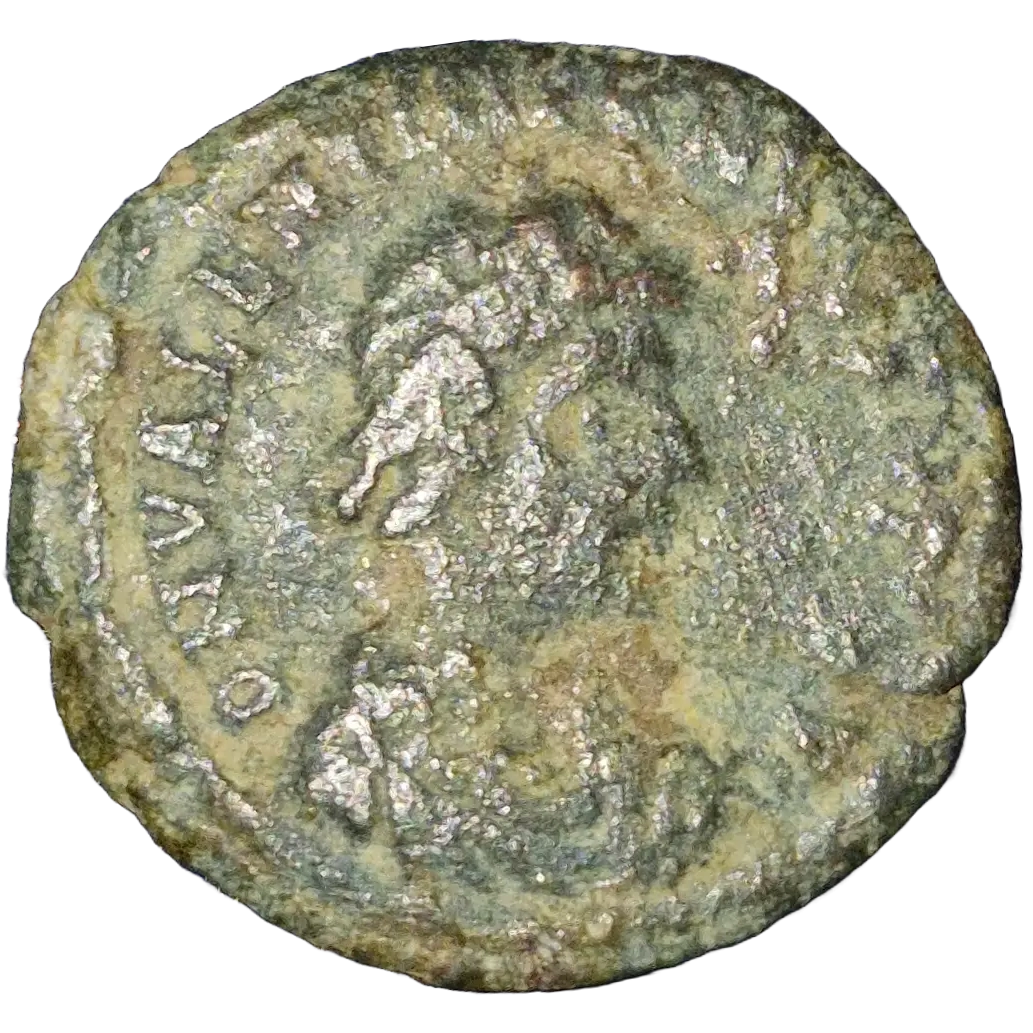
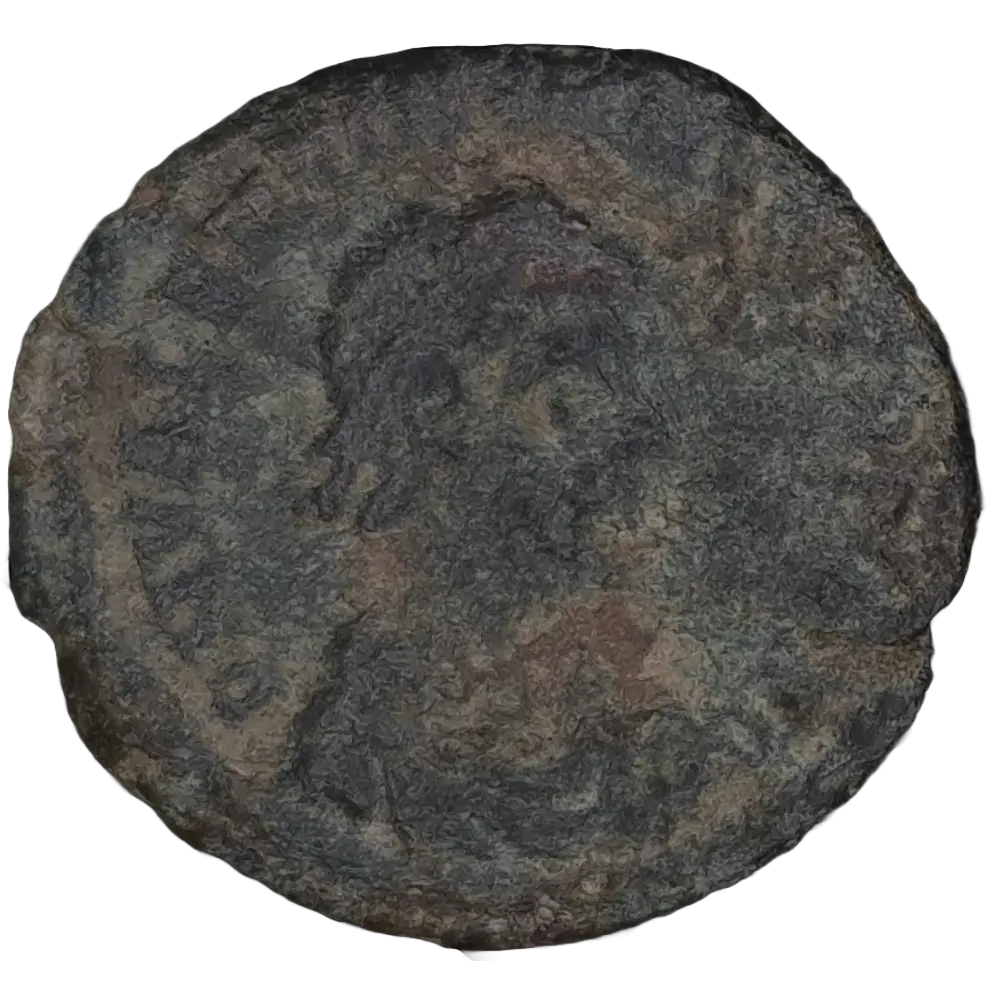
Better photos of the low-grade LRBs

diff --git a/src/assets/CollectionData.ts b/src/assets/CollectionData.ts
@@ -237,8 +237,7 @@ export const CollectionDataLegacy: CollectionItemV1[] = [
     mintLocation: 'Siscia',
     mintDate: '364-375 AD',
     obverseDescription: 'Diademed bust of Valentinian facing right. "DN VALENTINIANVS PF AVG"',
-    reverseDescription:
-      'Military-dressed emperor advancing right, holding labarum and dragging captive. "BSISC" mint mark in exergue. "GLORIA ROMANORVM"',
+    reverseDescription: 'Victory advancing left',
     catalogueNumber: 'RIC IX #14A',
   },
   {
@@ -634,8 +633,47 @@ export const CollectionData: CollectionItem[] = [
     characters: ['Jupiter', 'Caracalla & Geta'],
   },
   // TODO: 9
-  // TODO: 10
-  // TODO: 11
+  // 10
+  {
+    id: 10,
+    grade: Grade.Good,
+    title: 'Valentinian I Nummus',
+    ruler: {
+      name: 'Valentinian I',
+      reign: '364-375 AD',
+    },
+    authority: 'Roman Empire',
+    mint: {
+      location: 'Siscia',
+      date: '364-367 AD',
+    },
+    obverse: {
+      imagePath: '/Images/Collection/A010-Obverse.webp',
+      description: 'Diademed bust of Valentinian facing right.',
+      legend: 'DN VALENTINIANVS PF AVG',
+      legendDetails: {
+        language: 'latin',
+        original: 'Dominus Noster Valentinianus Pius Felix Augustus',
+        english: 'Our Lord Valentinian, the Dutiful and Happy Emperor',
+      },
+    },
+    reverse: {
+      imagePath: '/Images/Collection/A010-Reverse.webp',
+      description:
+        'Victory advancing left, holding wreath. "*A" mint mark left of Victory. "DΔSISC" mint mark in exergue.',
+      legend: 'SECVRITAS REIPVBLICAE',
+      legendDetails: {
+        language: 'latin',
+        original: 'Securitas Reipublicae',
+        english: 'The Security of the Republic of Rome',
+      },
+    },
+    reference: {
+      catalogueNumber: 'RIC IX #7A',
+    },
+    characters: ['Victory'],
+  },
+  // 11
   {
     id: 11,
     grade: Grade.ExtremelyFine,
@@ -675,7 +713,46 @@ export const CollectionData: CollectionItem[] = [
     },
     characters: ['Providentia'],
   },
-  // TODO: 12
+  // 12
+  {
+    id: 12,
+    grade: Grade.Good,
+    title: 'Constantine I Nummus',
+    ruler: {
+      name: 'Constantine I "The Great"',
+      reign: '306-337 AD',
+    },
+    authority: 'Roman Empire',
+    mint: {
+      location: 'Nicomedia',
+      date: '324-329 AD',
+    },
+    obverse: {
+      imagePath: '/Images/Collection/A012-Obverse.webp',
+      description: 'Diademed bust of Constantine.',
+      legend: 'CONSTANTIVS AVG',
+      legendDetails: {
+        language: 'latin',
+        original: 'Constantinus Augustus',
+        english: 'Emperor Constantine',
+      },
+    },
+    reverse: {
+      imagePath: '/Images/Collection/A012-Reverse.webp',
+      description:
+        'Military camp gates with 2 towers either side, and a star above. "NB" mint mark in exergue.',
+      legend: 'PROVIDENTIA AVGG',
+      legendDetails: {
+        language: 'latin',
+        original: 'Providentia Augustorum',
+        english: 'The Providence of the two Emperors',
+      },
+    },
+    reference: {
+      catalogueNumber: 'RIC VII #90',
+    },
+    characters: ['Camp Gates'],
+  },
   // 13
   {
     id: 13,
@@ -717,7 +794,47 @@ export const CollectionData: CollectionItem[] = [
     characters: ['Julia Domna', 'Vesta'],
   },
   // TODO: 14
-  // TODO: 15
+  // 15
+  {
+    id: 15,
+    grade: Grade.Good,
+    title: 'Valentinian I Nummus',
+    ruler: {
+      name: 'Valentinian I',
+      reign: '364-375 AD',
+    },
+    authority: 'Roman Empire',
+    mint: {
+      location: 'Siscia (2nd Officina)',
+      date: '364-375 AD',
+    },
+    obverse: {
+      imagePath: '/Images/Collection/A015-Obverse.webp',
+      description: 'Diademed bust of Valentinian facing right.',
+      legend: 'DN VALENTINIANVS PF AVG',
+      legendDetails: {
+        language: 'latin',
+        original: 'Dominus Noster Valentinianus Pius Felix Augustus',
+        english: 'Our Lord Valentinian, the Dutiful and Happy Emperor',
+      },
+    },
+    reverse: {
+      imagePath: '/Images/Collection/A015-Reverse.webp',
+      description:
+        'Valentinian in military dress advancing right, holding labarum and dragging a captive. BSISC mint mark in exergue.',
+      legend: 'GLORIA ROMANORVM',
+      legendDetails: {
+        language: 'latin',
+        original: 'Gloria Romanorum',
+        english: 'The Glory of the Romans',
+      },
+    },
+    reference: {
+      catalogueNumber: 'RIC IX #14A',
+      url: 'https://numismatics.org/ocre/id/ric.9.sis.14A',
+    },
+    characters: [],
+  },
   // 16
   {
     id: 16,
